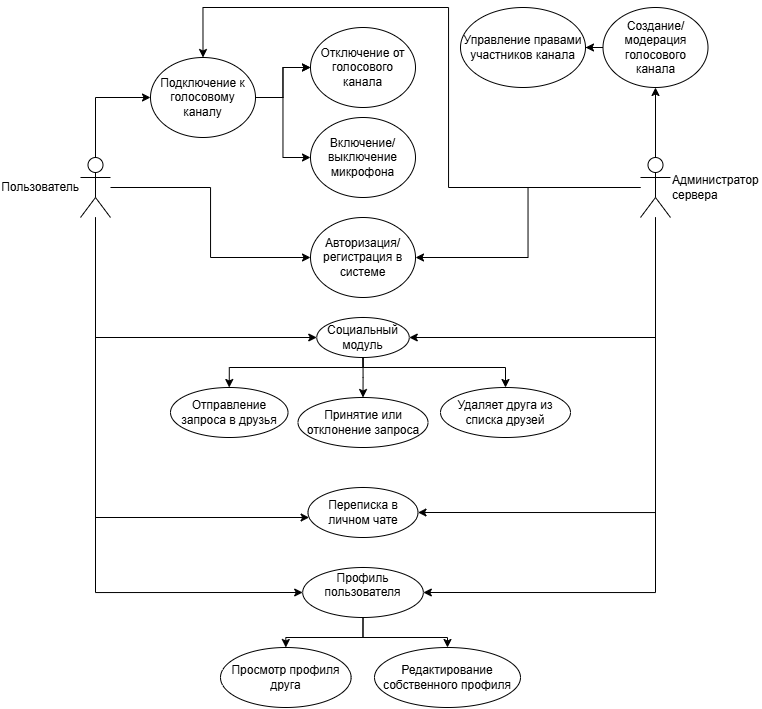
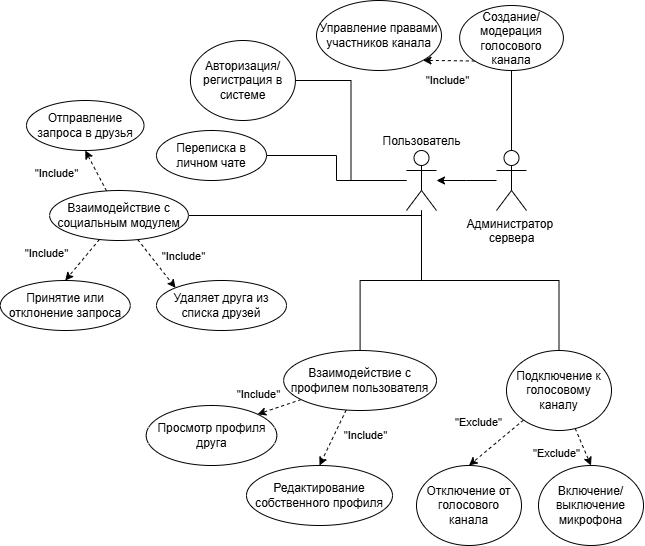
readme + первая лаба

diff --git a/Lab Work №1/docs/LabWork1.md b/Lab Work №1/docs/LabWork1.md
@@ -37,9 +37,9 @@ __Внешние:__
   - Шифрование передаваемых данных
   - Ограничение числа запросов от одного пользователя (защита от спама)
 - Доступность
-  - Устойчивость к кратковременным сбоям сети
+  - Устойчивость к кратковременным сбоям сети (не отключение от голосового канала при краткровременной потере пакетов)
 - Интерфейс
-  - Удобный и интуитивный дизайн, минимальное число действий для выполнения задач
+  - Удобный и интуитивный дизайн (2-3 клика для доступа к любой функции)
 - Локализуемость
   - Необходима поддержка 2 языков при вводе текста по всей программе (русский и английский)
 - Авторизируемость
@@ -47,14 +47,14 @@ __Внешние:__
 - Аутентифицируемость 
   - Пользователь должен зарегистрироваться и войти в систему для работы с ней
 - Разделение прав
-  - В зависимости от роли на сервере пользователь имеет разный функционал по отношению к голосым каналам
+  - В зависимости от роли на сервере пользователь имеет разный функционал по отношению к голосовым каналам
 
 Сделанные предположения:
 ---
-- Пользователи будут иметь стабильное интернет-соединение - отсутствие оффлайн версии системы
+- Пользователи будут иметь постоянное интернет-соединение - отсутствие оффлайн версии системы
 - Реализация видеозвонков и сложных интеграций не входит в текущий объем работ
 - Реализация демонстрации экрана не требуется
-- Гостевой доступ не предусмотрен (необходима авторизация)
+- Гостевой доступ не предусмотрен
 - Пользователи будут взаимодействовать с системой через современный веб-браузер, поддерживающий необходимые технологии (например, Google Chrome)
 - Подключение к голосовым каналам предполагает использование стандартного оборудования (микрофон и наушники)
 - Все пользователи обладают базовыми навыками работы с веб-приложениями и не нуждаются в обучении для использования системы

diff --git a/readme.md b/readme.md
@@ -1,0 +1,36 @@
+# Формулировка темы:
+Разработка системы мгновенного обмена сообщениями с поддержкой VoIP: модуль голосовых каналов и социальный модуль
+
+Пользователи:
+----
+__Обычные пользователи__
+
+- Ищут удобный и быстрый способ общения.
+- Используют голосовые каналы и текстовые чаты.
+- Добавляют друзей, управляют профилем, обмениваются личными сообщениями.
+
+__Администраторы__
+
+- Управляют серверами и пользователями.
+- Контролируют доступ к функциям и модерацию голосовых/текстовых каналов.
+
+Требования:
+---
+- Авторизация и регистрация
+  - Создание аккаунта и вход в него 
+- Голосовые каналы
+  - Создание канала и его редактирование (только модераторы сервера)
+  - Общение в канале в голосовом формате небольшой группы людей 
+- Система добавления в друзья, возможность подтверждения запросов
+  - Возможность отправить запрос на дружбу и подтвердить/отклонить его 
+- Личные чаты
+  - Возможность текстовой переписки 2-х людей
+- Профиль пользователя и его настройка
+  - Возможность просмотра профиля другого пользователя
+  - Возможность изменить свой профиль (имя, фамилия, логин, аватар пользователя) 
+
+Дополнительный контекст:
+---
+- __Целевая аудитория:__ студенты и небольшие команды, которым нужны функционал чатов и голосовых каналов для координации
+
+Уже __MVP__ будет или итерации (минимальный функицонал и будут доработки)
